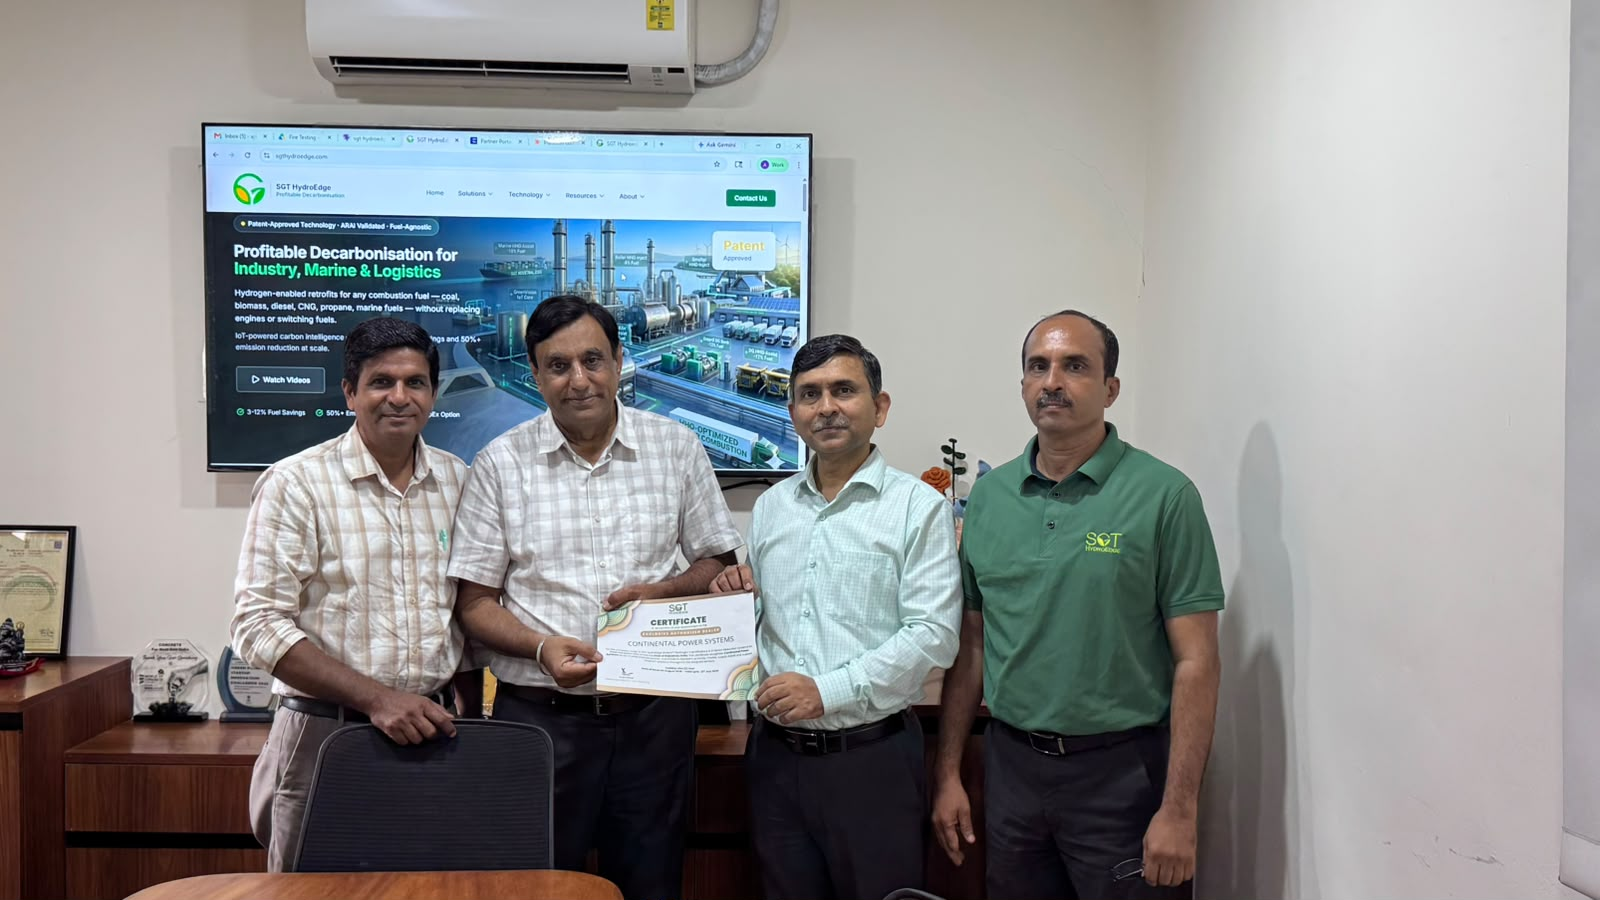
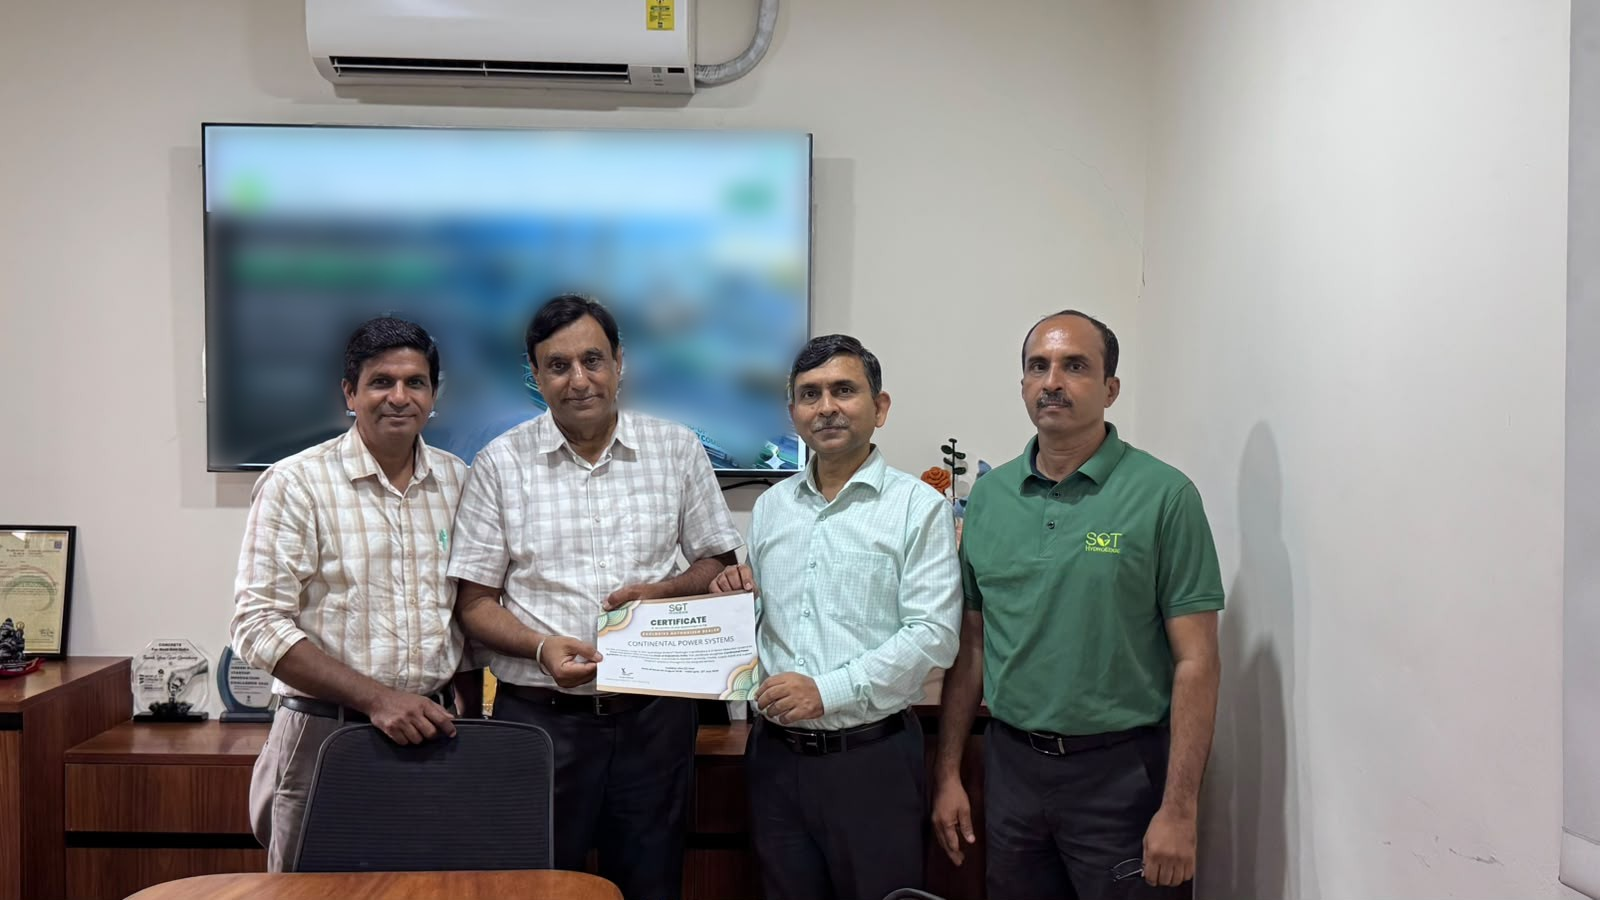
Restore the certificate handover photo on the Partners page
Bring back the original handover picture on the Partners page, the
partner store banner and the gallery, with the TV screen behind the
group blurred because it showed the old website's claims.

Changed region(s): [[0.125, 0.1244, 0.5312, 0.5289]]

diff --git a/src/components/Resources/Gallery/galleryData.ts b/src/components/Resources/Gallery/galleryData.ts
@@ -97,8 +97,9 @@ const galleryData: GalleryEvent[] = [
     title: "Continental Power Systems Appointed Authorised Dealer for Rajasthan",
     excerpt:
       "SGT HydroEdge welcomed the team from Continental Power System & Triumph Engineer to our Pune facility to formalise their appointment as our authorised dealer for Rajasthan. The visit included the handover of the dealership certificate, a walkthrough of our assembly area, and a demonstration of the GreenDrive and GreenX units.",
-    cover: "/images/gallery/event-7/6.jpeg",
+    cover: "/images/gallery/event-7/cover.jpeg",
     images: [
+      "/images/gallery/event-7/cover.jpeg",
       "/images/gallery/event-7/6.jpeg",
       "/images/gallery/event-7/4.jpeg",
       "/images/gallery/event-7/5.jpeg",

diff --git a/src/data/partnerStores.ts b/src/data/partnerStores.ts
@@ -78,7 +78,7 @@ export const partnerStores: PartnerStore[] = [
     website: { label: "continentalpowersystem.com", url: "https://www.continentalpowersystem.com" },
     showGreenXRange: true,
     banner: {
-      src: "/images/gallery/event-7/6.jpeg",
+      src: "/images/gallery/event-7/cover.jpeg",
       alt: "SGT HydroEdge and Continental Power Systems teams at the dealership certificate handover, Pune",
       caption: "Dealership certificate handover at SGT HydroEdge, Pune — July 2026",
     },

diff --git a/src/components/About/LivePartners.tsx b/src/components/About/LivePartners.tsx
@@ -33,7 +33,7 @@ const LIVE_PARTNERS: LivePartner[] = [
     email: 'cpsdgsets@gmail.com',
     storeSlug: 'continental-power-systems',
     photo: {
-      src: '/images/gallery/event-7/6.jpeg',
+      src: '/images/gallery/event-7/cover.jpeg',
       alt: 'SGT HydroEdge and Continental Power Systems teams at the dealership certificate handover, Pune',
       caption: 'Dealership certificate handover at our Pune facility, July 2026',
     },
